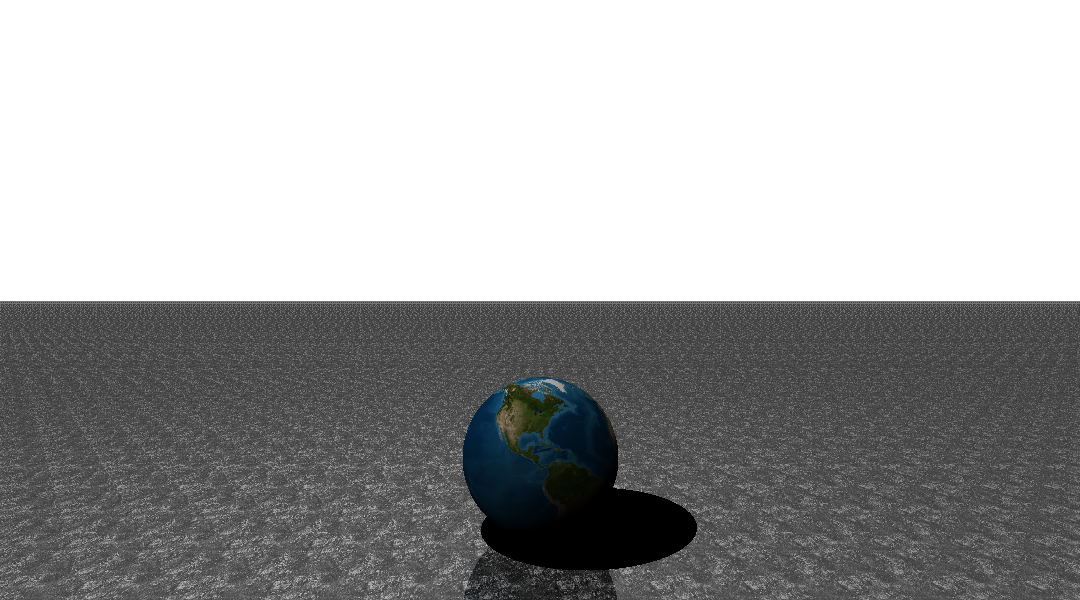
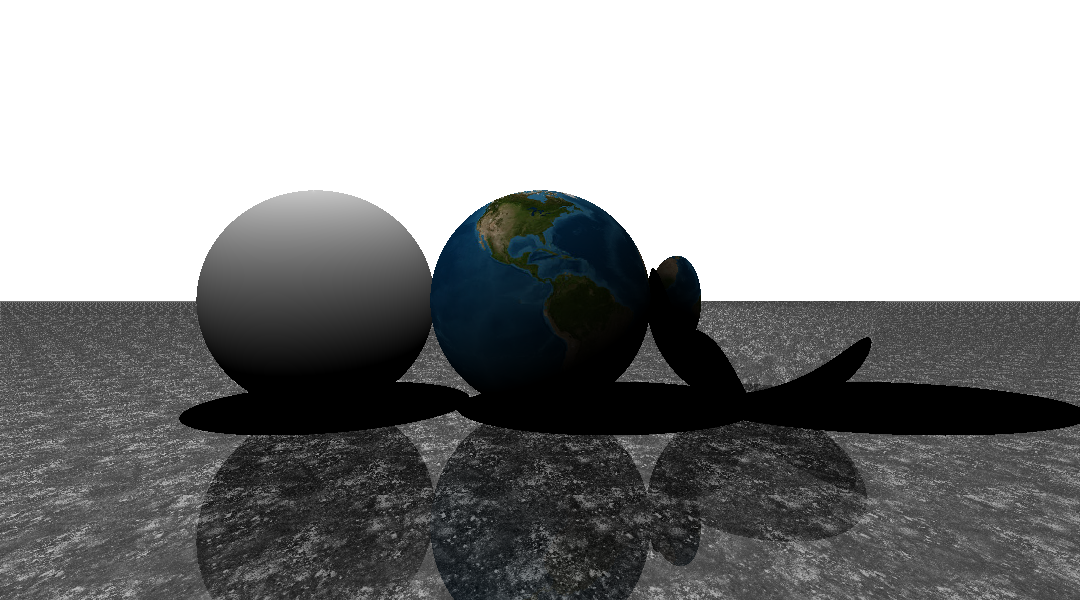
ajout com pour la texture + mise à jour hectore

diff --git a/image_texture.py b/image_texture.py
@@ -4,25 +4,86 @@ from PIL import Image
 
 class ImageTexture:
     def __init__(self, filename):
+        """
+        Il faut en premier exprimer les coordonnées d'un point P en coordonnées
+        sphérique (theta, phi) et ensuite on les utlise pour calculer les 
+        coordonnées de la texture (s, t)=(u, v)
+
+        
+        theta c'est la veleur de y mais en coordonnées sphérique car: 
+            on part du principe que nous regardons notre sphère dans le repère de base (x, y, z)
+                x qui va de gauche à droite
+                y qui va de bas en haut
+                z qui vient vers nous et recule
+
+            Dans notre sphère y ne nous donne aucune info pour trouver la position du point P
+            en coordonnée sphérique. Pour ça on "ramène" (avec de grosse guillemet) l'axe y en axe z
+            Soit sur notre sphère on cherche le point y qui coresponde à un point en z.
+
+            pour ça il existe une fonction appel arc-cos qui varie entre [0, pi] (angle de 180°) pour "ramener
+            le point en y sur l'axe des z". Donc on fait venir le point y vers nous sur la sphère
+                y = arc-cos(y)
+            
+            On a le point y en coordonnées sphérique, il nous faut maintenant connaitre la coordonnée phi 
+            qui est l'angle entre l'axe x et z
+            Or celui la est plus simple à comprendre et trouver car: c'est "le point" qui tourne autoure de la sphère en 360° 
+            soit phi [0, 2pi]
+                phi = arc_cos2(-z, x) + pi
+                    on utilise arc-cos2 pour trouver directement l'angle entre x et z
+        Ensuite il faut tout normaliser car nous venons de trouver les coordonnées sphérique 
+        mais u et v sont dans l'intervale [O, 1]
+        Pour ça comme:
+                théta e[0, pi] on divise pas pi
+                phi   e[0, 2pi] on divise par 2*pi
+        
+        Et nous avons nos coordonnées sphérique et la position du pixel sur nôtre image normalisé
+            u et v 
+        
+        C'EST CE QUE FAIT LA FONCTION get_uv(P) #P:= on point 
+        """
         self.image = Image.open(filename)
         self.largeur, self.hauteur = self.image.size
 
     def valeur(self, u, v):
+        """
+        Fonction qui s'occupe de retourner la couleur du pixel au point calculer
+        sur la texture (u, v) mais à la bonne position et à la bonne échelle de l'image 
+        si je suis en :
+                0.5 je suis censée être au milieu de l'image donc c'est pour ça 
+                    qu'on miltiplie par la taille de l'image c'est comme un produit en croix
+
+        Il y a des vérification de u et v pour vérifier qu'ils ont bien étaient normalisé
+        soit u et v e[0, 1] pour pouvoir faire la multiplication
+
+        et même chose pour i et j mais normalement is doivent aussi être dans la plage de valeur 
+        de la taille de nôtre image soit [0, largeur] et [0, hauteur]
+        """
+        #Vérifiction pour savoir si u et v sont bien compris entre [0, 1]
         u = max(0, min(1, u))
         v = 1.0 - max(0, min(1, v))
-        i = int(u * self.largeur)
-        j = int(v * self.hauteur)
-        i = max(0, min(i, self.largeur - 1))
-        j = max(0, min(j, self.hauteur - 1))
-        pixel = self.image.getpixel((i, j))
-        color_scale = 1.0 / 255.0
-        return tuple(color_scale * channel for channel in pixel)
 
-        """
-        if isinstance(pixel, int):  # Si le pixel est un entier, c'est probablement une image en niveaux de gris
-            color_scale = 1.0 / 255.0
-            return (color_scale * pixel, color_scale * pixel, color_scale * pixel)  # Retourne un tuple RGB normalisé
-        else:
-            color_scale = 1.0 / 255.0
-            return tuple(color_scale * channel for channel in pixel)
-        """
+        #On remet u et v à la bonne échelle de nôtre image
+        #   on appel ces nouvelles position i et j
+        #   et on vérifie si ils sont dans la bonne plage de valeurs
+        #           i e[0, largeur] et j e[0, hauteur]
+        i = int(u * self.largeur)
+        i = max(0, min(i, self.largeur - 1))
+
+
+        j = int(v * self.hauteur)
+        j = max(0, min(j, self.hauteur - 1))
+
+        #On récupère la couleur du pixel à la position (i, j)
+        pixel = self.image.getpixel((i, j))
+        
+        #Échelle de couleur "ratio" pour les mettre entre [0, 255]
+        color_scale = 1.0 / 255.0
+
+        #Normalisation des couleurs
+        result = []
+        for channel in pixel:
+            result.append(color_scale * channel)
+
+        return tuple(result)
+
+       

diff --git a/scene.py b/scene.py
@@ -49,8 +49,9 @@ class Scene:
         cos_i = -np.dot(normal, ray_direction)
         sin_i2 = 1.0 - cos_i * cos_i
         sin_r2 = (1 / 1.52) ** 2 * sin_i2
+        #Total internal reflection
         if sin_r2 > 1.0:
-            return None  # Total internal reflection
+            return None  
         cos_r = math.sqrt(1.0 - sin_r2)
         return (1 / 1.52) * ray_direction + (1 / 1.52 * cos_i - cos_r) * normal
       
@@ -120,7 +121,7 @@ class Scene:
             couleur_reflechie = self.tracer_rayon(premier_reflect, direction_reflechie, profondeur)
 
 
-        # Réfraction
+        #Réfraction
         if objet_proche.transparence > 0:
             rayon_refraction = self.refraction(direction, normale)
             if rayon_refraction is not None:
@@ -134,9 +135,11 @@ class Scene:
         k_trans = objet_proche.transparence
         k_direct = 1 - k_refl - k_trans
         couleur_totale = k_direct * couleur_directe + k_refl * couleur_reflechie + k_trans * couleur_refraction
+        """
         if(couleur_totale[0]>255):
             #print(couleur_totale)
             couleur_totale/=2
+        """
         return np.clip(couleur_totale, 0, 255)
 
     def trouver_intersection_la_plus_proche(self, origine, direction):
@@ -250,8 +253,8 @@ class Scene:
 
         sphere1 = Sphere(1, [0, 1, 0], [255, 255, 255], 0,earth,0)
         #sphere2 = Sphere(0.5, [0, 1, 2], [0, 255, 0], 0, None, 1.5)
-        #sphere3 = Sphere(1, [2, 1, 0], [255, 255, 255], 1.0, None,0)
-        #sphere4 = Sphere(1, [-2, 1, 0], [255, 255, 255], 0, None, 0)
+        sphere3 = Sphere(1, [2, 1, 0], [255, 255, 255], 1.0, None,0)
+        sphere4 = Sphere(1, [-2, 1, 0], [255, 255, 255], 0, None, 0)
         plan_horizontal = Plan([0, 0, 0], [0, 1, 0], [255, 255, 255],0.2, sol,0)
         #plan_vertical = Plan([0, 0, -10], [0, 0, 1], [0, 0, 0], 0, None,0)
         #plan_vertical1 = Plan([0, 0, 10], [0, 0, 1], [255, 255, 255], 0, None)
@@ -259,14 +262,14 @@ class Scene:
         #Ajout 
         scene.ajouter_objet(sphere1)
         #scene.ajouter_objet(sphere2)
-        #scene.ajouter_objet(sphere3)
-        #scene.ajouter_objet(sphere4)
+        scene.ajouter_objet(sphere3)
+        scene.ajouter_objet(sphere4)
         scene.ajouter_objet(plan_horizontal)
         #scene.ajouter_objet(plan_vertical)
         #scene.ajouter_objet(plan_vertical1)
 
         #configuration de la caméra
-        camera = Camera(np.array([0, 3, 7]), np.array([0, 0, -1]), [0, 1, 0], [largeur, hauteur], largeur/2)
+        camera = Camera(np.array([0, 1, 5]), np.array([0, 0, -1]), [0, 1, 0], [largeur, hauteur], largeur/2)
         scene.configurer_camera(camera)
 
         #configuration de la lumière

diff --git a/sphere.py b/sphere.py
@@ -110,17 +110,16 @@ class Sphere:
     
     def get_uv(self, p):
       """
-      p: un point donné sur la sphère de rayon un, centrée à l'origine.
-      u: valeur retournée [0,1] de l'angle autour de l'axe Y à partir de X=-1.
-      v: valeur retournée [0,1] de l'angle de Y=-1 à Y=+1.
-          <1 0 0> donne <0.50 0.50>       <-1  0  0> donne <0.00 0.50>
-          <0 1 0> donne <0.50 1.00>       < 0 -1  0> donne <0.50 0.00>
-          <0 0 1> donne <0.25 0.50>       < 0  0 -1> donne <0.75 0.50>
+      Retourne la position du point p sur la texture
+      Pour plus d'explication voir dans:
+        image_texture.py dans le init l'explication de ce qu'il se passe ici
       """
-      y = max(-1.0, min(1.0, -p[1]))  # Clamp la valeur de -p[1] dans l'intervalle [-1, 1]
+
+      y = max(-1.0, min(1.0, -p[1]))  #valeurs entre [0, 1]
       theta = math.acos(y)
       phi = math.atan2(-p[2], p[0]) + math.pi
 
+      #normalisation de u et v pour les avoir dans l'intervale [0, 1]
       u = phi / (2 * math.pi)
       v = theta / math.pi
 
